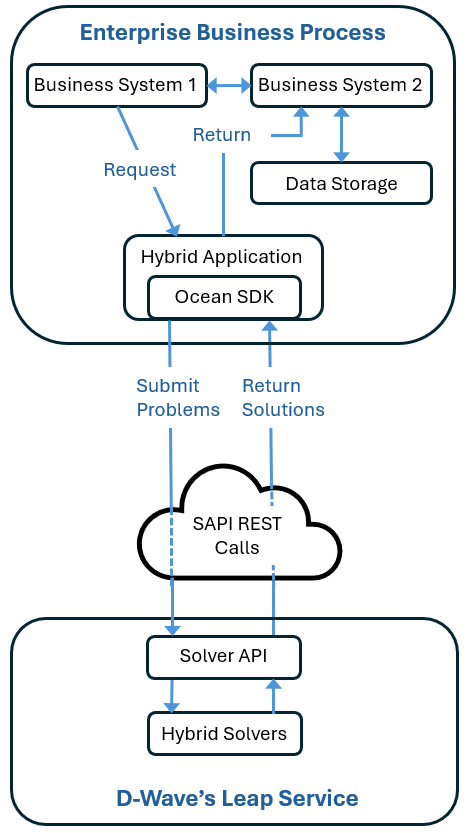
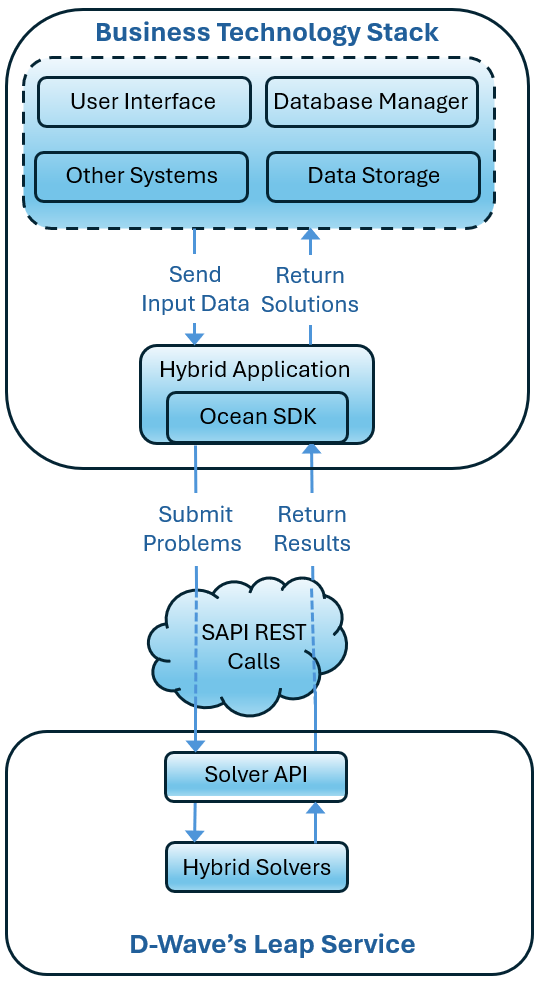
Implement feedback, especially for the diagram

diff --git a/docs/industrial_optimization/productizing_apps.rst b/docs/industrial_optimization/productizing_apps.rst
@@ -8,7 +8,7 @@ This section provides insight into designing and preparing your hybrid
 application to be successfully integrated into a business process in a
 production environment. Hybrid applications can be easy to integrate into
 business processes, in part, because such applications typically run batch-based,
-asynchronous operations, submitting problems to and receiving solutions from
+asynchronous operations, submitting problems to and receiving results from
 hybrid solvers in the Leap service.
 
 .. _quantum_apps_pipeline:
@@ -19,54 +19,62 @@ Application Pipeline
 A hybrid-application pipeline acts as an intermediary between an enterprise
 business process and D-Wave's compute infrastructure made available via
 the solver API (SAPI) and the Leap service. :numref:`Figure %s <HybridAppPipeline>`
-provides a high-level illustration of a hybrid-application pipeline integrated
+provides a high-level illustration of a typical hybrid-application pipeline integrated
 into an enterprise business process. Enterprise business processes can involve
-many different business systems such as enterprise-content development systems
-(e.g., Microsoft Sharepoint), database management systems, and data lakes
-(in the figure, these various business systems are represented by
-``Business System 1``, ``Business System 2``, and ``Data Storage``).
-A hybrid application receives requests from a business system and uses
-D-Wave's Python-based and open-source software development kit (SDK),
-the Ocean SDK, to submit problems via SAPI REST calls to the hybrid solvers
-in D-Wave's Leap service. The hybrid solvers return solutions and, again using
-the Ocean SDK, the hybrid application receives and returns those solutions to
-the appropriate business system.
+many different business systems such as a user interface, enterprise-content
+development systems (e.g., Microsoft Sharepoint), database management systems,
+and data lakes. A hybrid application receives input data from various systems in
+the business technology stack and uses D-Wave's Python-based and open-source
+software development kit (SDK), the Ocean SDK, to submit problems via SAPI REST
+calls to the hybrid solvers in D-Wave's Leap service. The hybrid solvers return
+problem results and, again using the Ocean SDK, the hybrid application receives
+such results; the hybrid solver postprocesses the results and returns solutions
+to the appropriate business system.
 
 .. figure:: ../_images/hybrid_app_pipeline.png
     :name: HybridAppPipeline
-    :alt: Hybrid-application pipeline integrated into an enterprise business process
+    :alt: Hybrid-application pipeline integrated into a business technology stack
 
-    Hybrid-application pipeline integrated into an enterprise business process.\ [#]_
+    Hybrid-application pipeline integrated into a business technology stack.\ [#]_
 
 .. [#] QPU solvers are not shown in this figure, but the solver API is also
     used to call them.
 
-A typical hybrid-application pipeline is as follows:
+A hybrid application can orchestrate the execution of any number of problems
+for running the complex pipelines that many enterprise businesses require.
+The following process illustrates a basic, hybrid-application pipeline, which can
+be used as a model for more complex ones.
 
 #.  Authenticate and authorize your access to the Leap service via your solver API
     token and configuration of the Ocean SDK's :ref:`dwave-cloud-client <index_cloud>`
     package. For information, see :ref:`ocean_sapi_access_advanced`.
 
-#.  Preprocess your data, which includes handling problem and model formulation,
-    storing the formulated problem, and, optionally, retrieving additional data
-    from data sources.
+#.  Preprocess your input data, which includes handling problem and model
+    formulation, storing the formulated problem, and, optionally, retrieving
+    additional data from data sources.
 
 #.  Upload your problem to the Leap service.
 
+    A best practice is to separate uploading problems from submitting them.
+
 #.  Submit your problem to a hybrid solver.
+
+    A best practice is to force HTTP(S) connections to close after each
+    submission for long jobs on certain networks. For information, see the Ocean
+    SDK's :ref:`dwave-cloud-client <index_cloud>` package.
 
 #.  Wait and poll the hybrid solver for completion of the hybrid job as well as
     retry on solver failures. For information, see the Ocean SDK's
     :ref:`dwave-cloud-client <index_cloud>` package.
 
-#.  Post-process the solution, which typically includes the following:
+#.  Post-process the problem results, which typically includes the following:
 
-    *   Unpacking the solution.
+    *   Unpacking the problem results.
 
-    *   Interpreting and converting the solution into a form suitable for the
-        appropriate business system and users.
+    *   Interpreting and converting the problem results into a form suitable for
+        the appropriate business system and users.
 
-    *   Sending notifications to business systems and users,
+    *   Sending notifications to business systems and users.
     
 A real-world example of an enterprise-level hybrid-application pipeline is
 Pattison Food Group's
